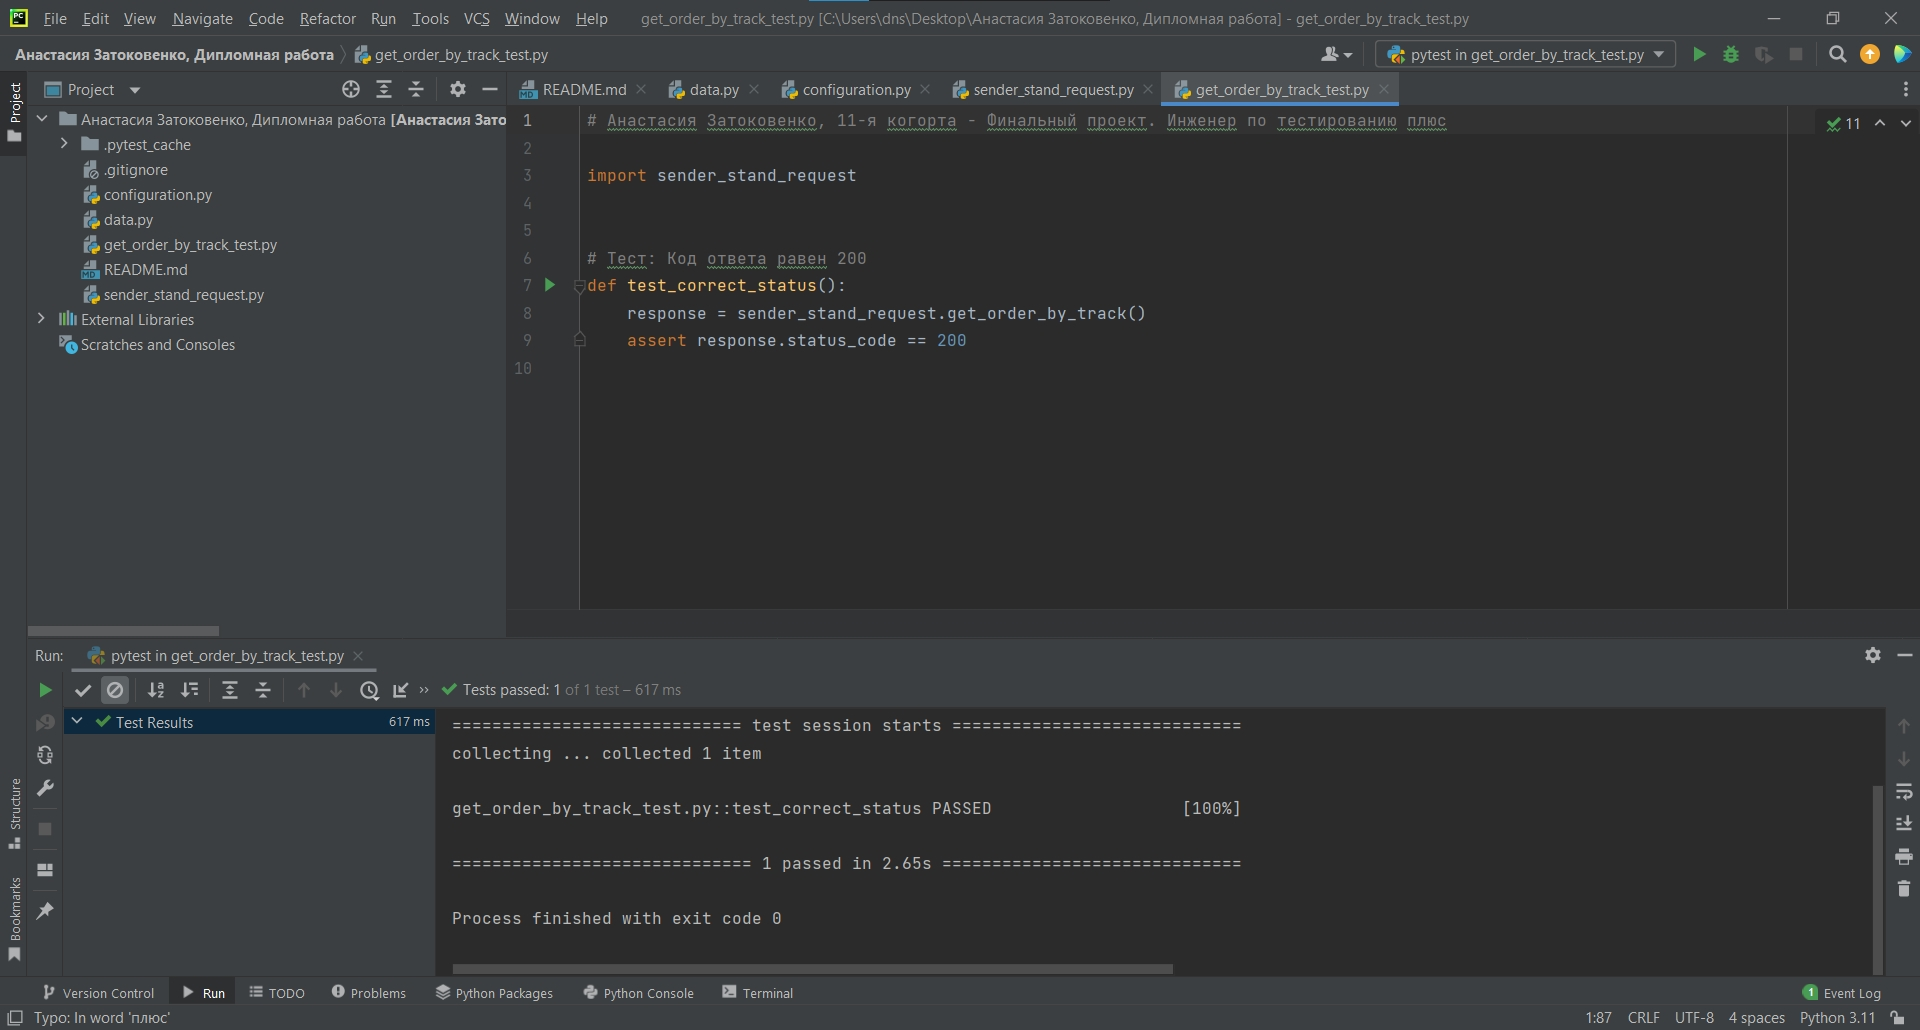
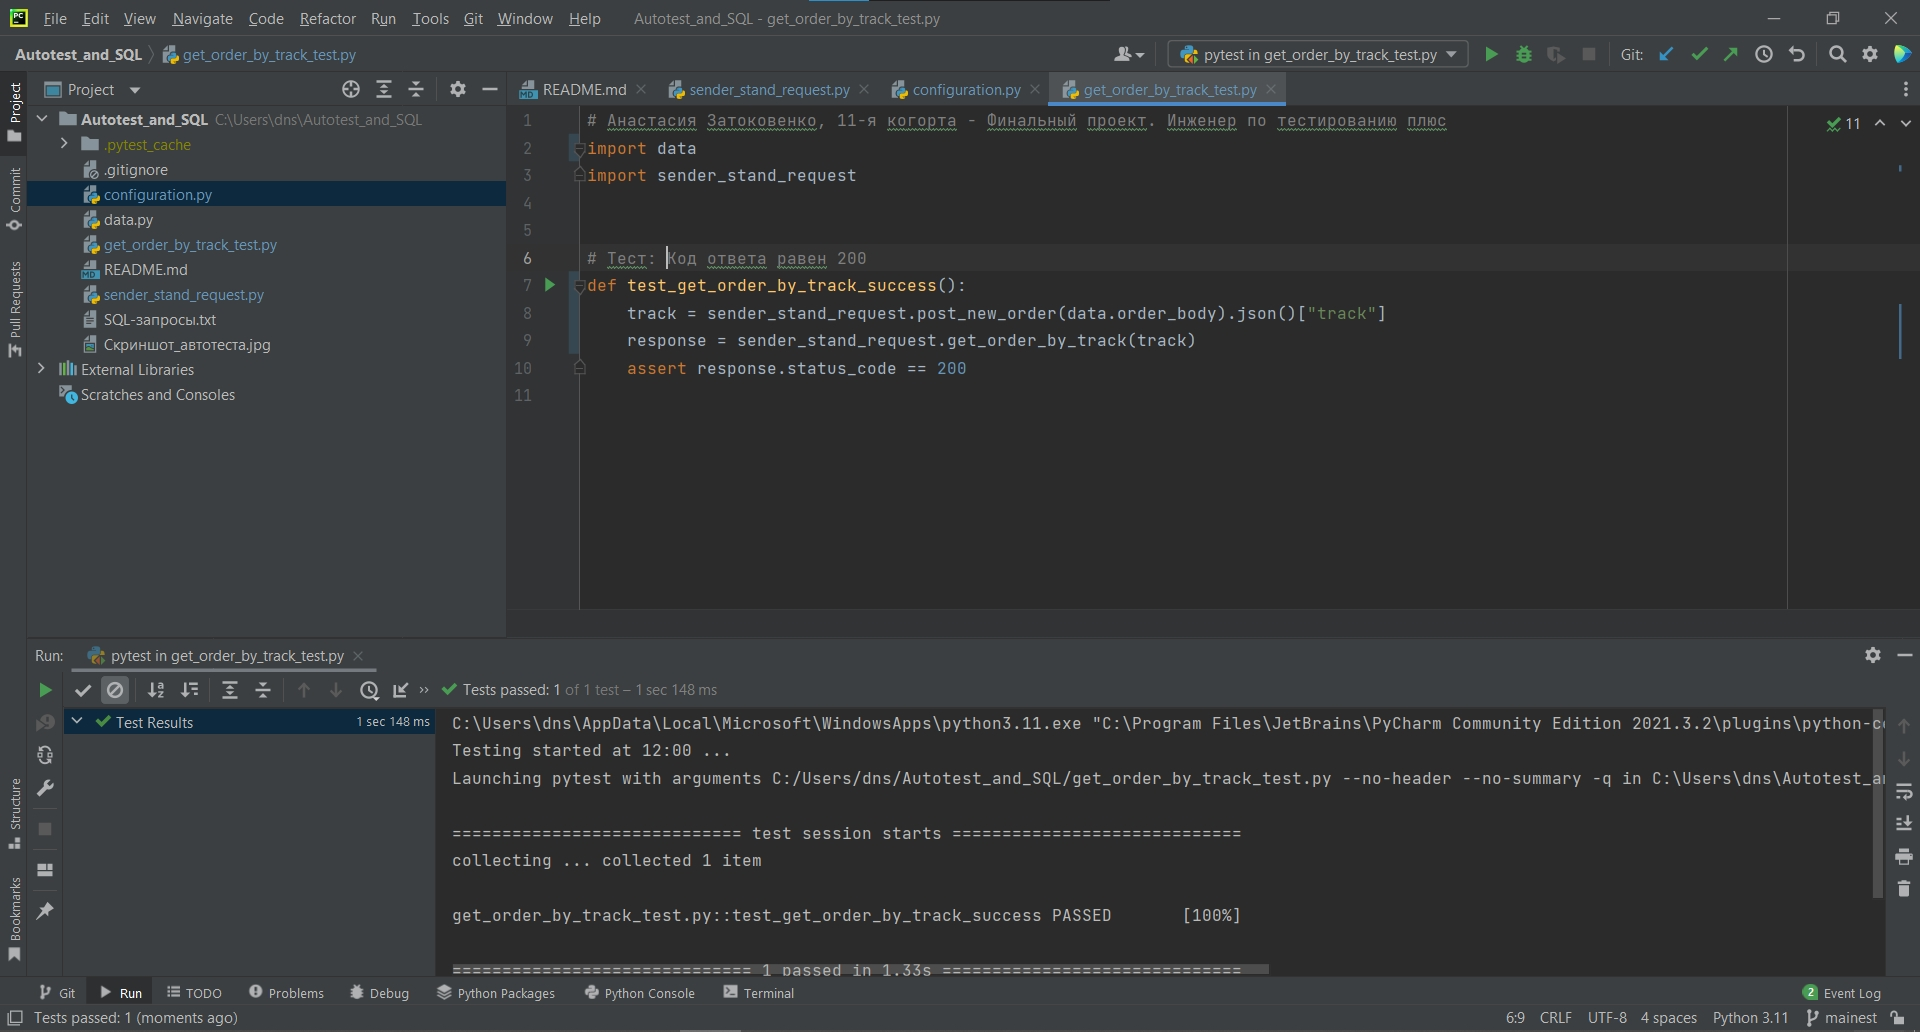
Первая доработка

diff --git a/sender_stand_request.py b/sender_stand_request.py
@@ -3,22 +3,16 @@ import requests
 import data
 
 
-# Функция для отправления запроса на создание нового заказа
+# Функция на отправление запроса на создание нового заказа
 def post_new_order(order_body):
     return requests.post(configuration.URL_SERVICE + configuration.CREATE_ORDER_PATH,
                          json=order_body,
                          headers=data.headers)
 
 
-track = post_new_order(data.order_body).json()["track"]
-
-
 # Функция на отправление запроса на получение заказа по номеру
-def get_order_by_track():
-    params_get_order = data.params.copy()
-    params_get_order["t"] = track
+def get_order_by_track(track):
+    current_params = data.params.copy()
+    current_params["t"] = track
     return requests.get(configuration.URL_SERVICE + configuration.GET_ORDER_BY_TRACK_PATH,
-                        params=params_get_order)
-
-
-response_get_order = get_order_by_track()
+                        params=current_params)

diff --git a/get_order_by_track_test.py b/get_order_by_track_test.py
@@ -1,9 +1,10 @@
 # Анастасия Затоковенко, 11-я когорта - Финальный проект. Инженер по тестированию плюс
-
+import data
 import sender_stand_request
 
 
 # Тест: Код ответа равен 200
-def test_correct_status():
-    response = sender_stand_request.get_order_by_track()
+def test_get_order_by_track_success():
+    track = sender_stand_request.post_new_order(data.order_body).json()["track"]
+    response = sender_stand_request.get_order_by_track(track)
     assert response.status_code == 200
